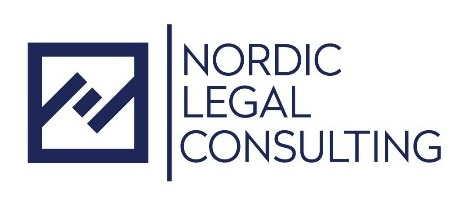
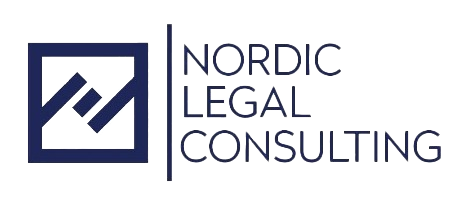
Refactor code structure for improved readability and maintainability

diff --git a/src/components/HowWeWork.tsx b/src/components/HowWeWork.tsx
@@ -131,9 +131,8 @@ const HowWeWork: React.FC<HowWeWorkProps> = ({ language }) => {
                       <div
                         className="absolute inset-0 bg-gradient-to-r opacity-0 group-hover:opacity-20 transition-opacity duration-500 rounded-3xl blur-xl"
                         style={{
-                          background: `linear-gradient(135deg, ${
-                            step.color.split(" ")[1]
-                          }, ${step.color.split(" ")[3]})`,
+                          background: `linear-gradient(135deg, ${step.color.split(" ")[1]
+                            }, ${step.color.split(" ")[3]})`,
                         }}
                       ></div>
 
@@ -178,69 +177,56 @@ const HowWeWork: React.FC<HowWeWorkProps> = ({ language }) => {
         {/* Mobile/Tablet Layout - Vertical Flow */}
         <div className="lg:hidden">
           <div className="relative max-w-2xl mx-auto">
-            {/* Vertical Progress Line */}
-            <div className="absolute left-8 top-0 bottom-0 w-1 bg-gradient-to-b from-blue-500  to-orange-500 rounded-full opacity-30"></div>
-
             <div className="space-y-12">
               {t.steps.map((step, index) => {
                 const IconComponent = step.icon;
 
                 return (
-                  <div key={index} className="relative flex items-start">
-                    {/* Step Number Circle */}
-                    <div className="relative z-10 flex-shrink-0">
-                      <div
-                        className={`w-16 h-16 rounded-full bg-gradient-to-r ${step.color} flex items-center justify-center shadow-lg border-4 border-white`}
-                      >
-                        <span className="text-white font-bold">
-                          {step.number}
-                        </span>
-                      </div>
-                    </div>
-
+                  <div key={index} className="relative">
                     {/* Step Card */}
-                    <div className="ml-4 flex-1">
-                      <div className="group relative">
-                        <div
-                          className="absolute inset-0 bg-gradient-to-r opacity-0 group-hover:opacity-20 transition-opacity duration-500 rounded-3xl blur-xl"
-                          style={{
-                            background: `linear-gradient(135deg, ${
-                              step.color.split(" ")[1]
+                    <div className="group relative">
+                      {/* Background glow on hover */}
+                      <div
+                        className="absolute inset-0 bg-gradient-to-r opacity-0 group-hover:opacity-20 transition-opacity duration-500 rounded-3xl blur-xl"
+                        style={{
+                          background: `linear-gradient(135deg, ${step.color.split(" ")[1]
                             }, ${step.color.split(" ")[3]})`,
-                          }}
-                        ></div>
+                        }}
+                      ></div>
 
-                        <div className="relative bg-white/80 backdrop-blur-xl rounded-3xl p-6 border border-gray-200 hover:border-gray-300 hover:shadow-xl transition-all duration-500 group-hover:transform group-hover:scale-105">
-                          <div className="flex items-start gap-4">
-                            {/* Icon */}
-                            <div
-                              className={`w-12 h-12 rounded-2xl bg-gradient-to-r ${step.color} flex items-center justify-center flex-shrink-0 shadow-lg`}
-                            >
-                              <IconComponent className="w-6 h-6 text-white" />
-                            </div>
+                      {/* Card Container */}
+                      <div className="relative bg-white/80 backdrop-blur-xl rounded-3xl p-6 border border-gray-200 hover:border-gray-300 hover:shadow-xl transition-all duration-500 group-hover:transform group-hover:scale-105">
+                        <div className="flex items-start gap-4">
+                          {/* Icon + Step Number */}
+                          <div
+                            className={`w-14 h-14 rounded-full bg-gradient-to-r ${step.color} flex flex-col items-center justify-center shadow-lg flex-shrink-0`}
+                          >
+                            <IconComponent className="w-5 h-5 text-white mb-0.5" />
+                            <span className="text-[11px] text-white font-semibold">
+                              {step.number}
+                            </span>
+                          </div>
 
-                            {/* Content */}
-                            <div className="flex-1">
-                              <h3 className="text-lg font-bold text-gray-800 mb-3 leading-tight">
-                                {step.title}
-                              </h3>
-
-                              <p className="text-gray-600 leading-relaxed text-sm">
-                                {step.description}
-                              </p>
-                            </div>
+                          {/* Title + Description */}
+                          <div className="flex-1">
+                            <h3 className="text-base font-bold text-gray-800 mb-2 leading-tight">
+                              {step.title}
+                            </h3>
+                            <p className="text-gray-600 text-sm leading-relaxed">
+                              {step.description}
+                            </p>
                           </div>
                         </div>
                       </div>
                     </div>
-
-                    
                   </div>
                 );
               })}
             </div>
           </div>
         </div>
+
+
 
         {/* Call to Action */}
         <div className="text-center mt-16">

diff --git a/src/components/Footer.tsx b/src/components/Footer.tsx
@@ -59,7 +59,7 @@ const Footer: React.FC<FooterProps> = ({ language }) => {
           <div className="lg:col-span-1">
             <div className="mb-6">
               <img
-                src="/image.png"
+                src="/TransparentLogo.png"
                 alt="Nordic Legal Consulting"
                 className="h-12 w-auto mb-4"
               />
